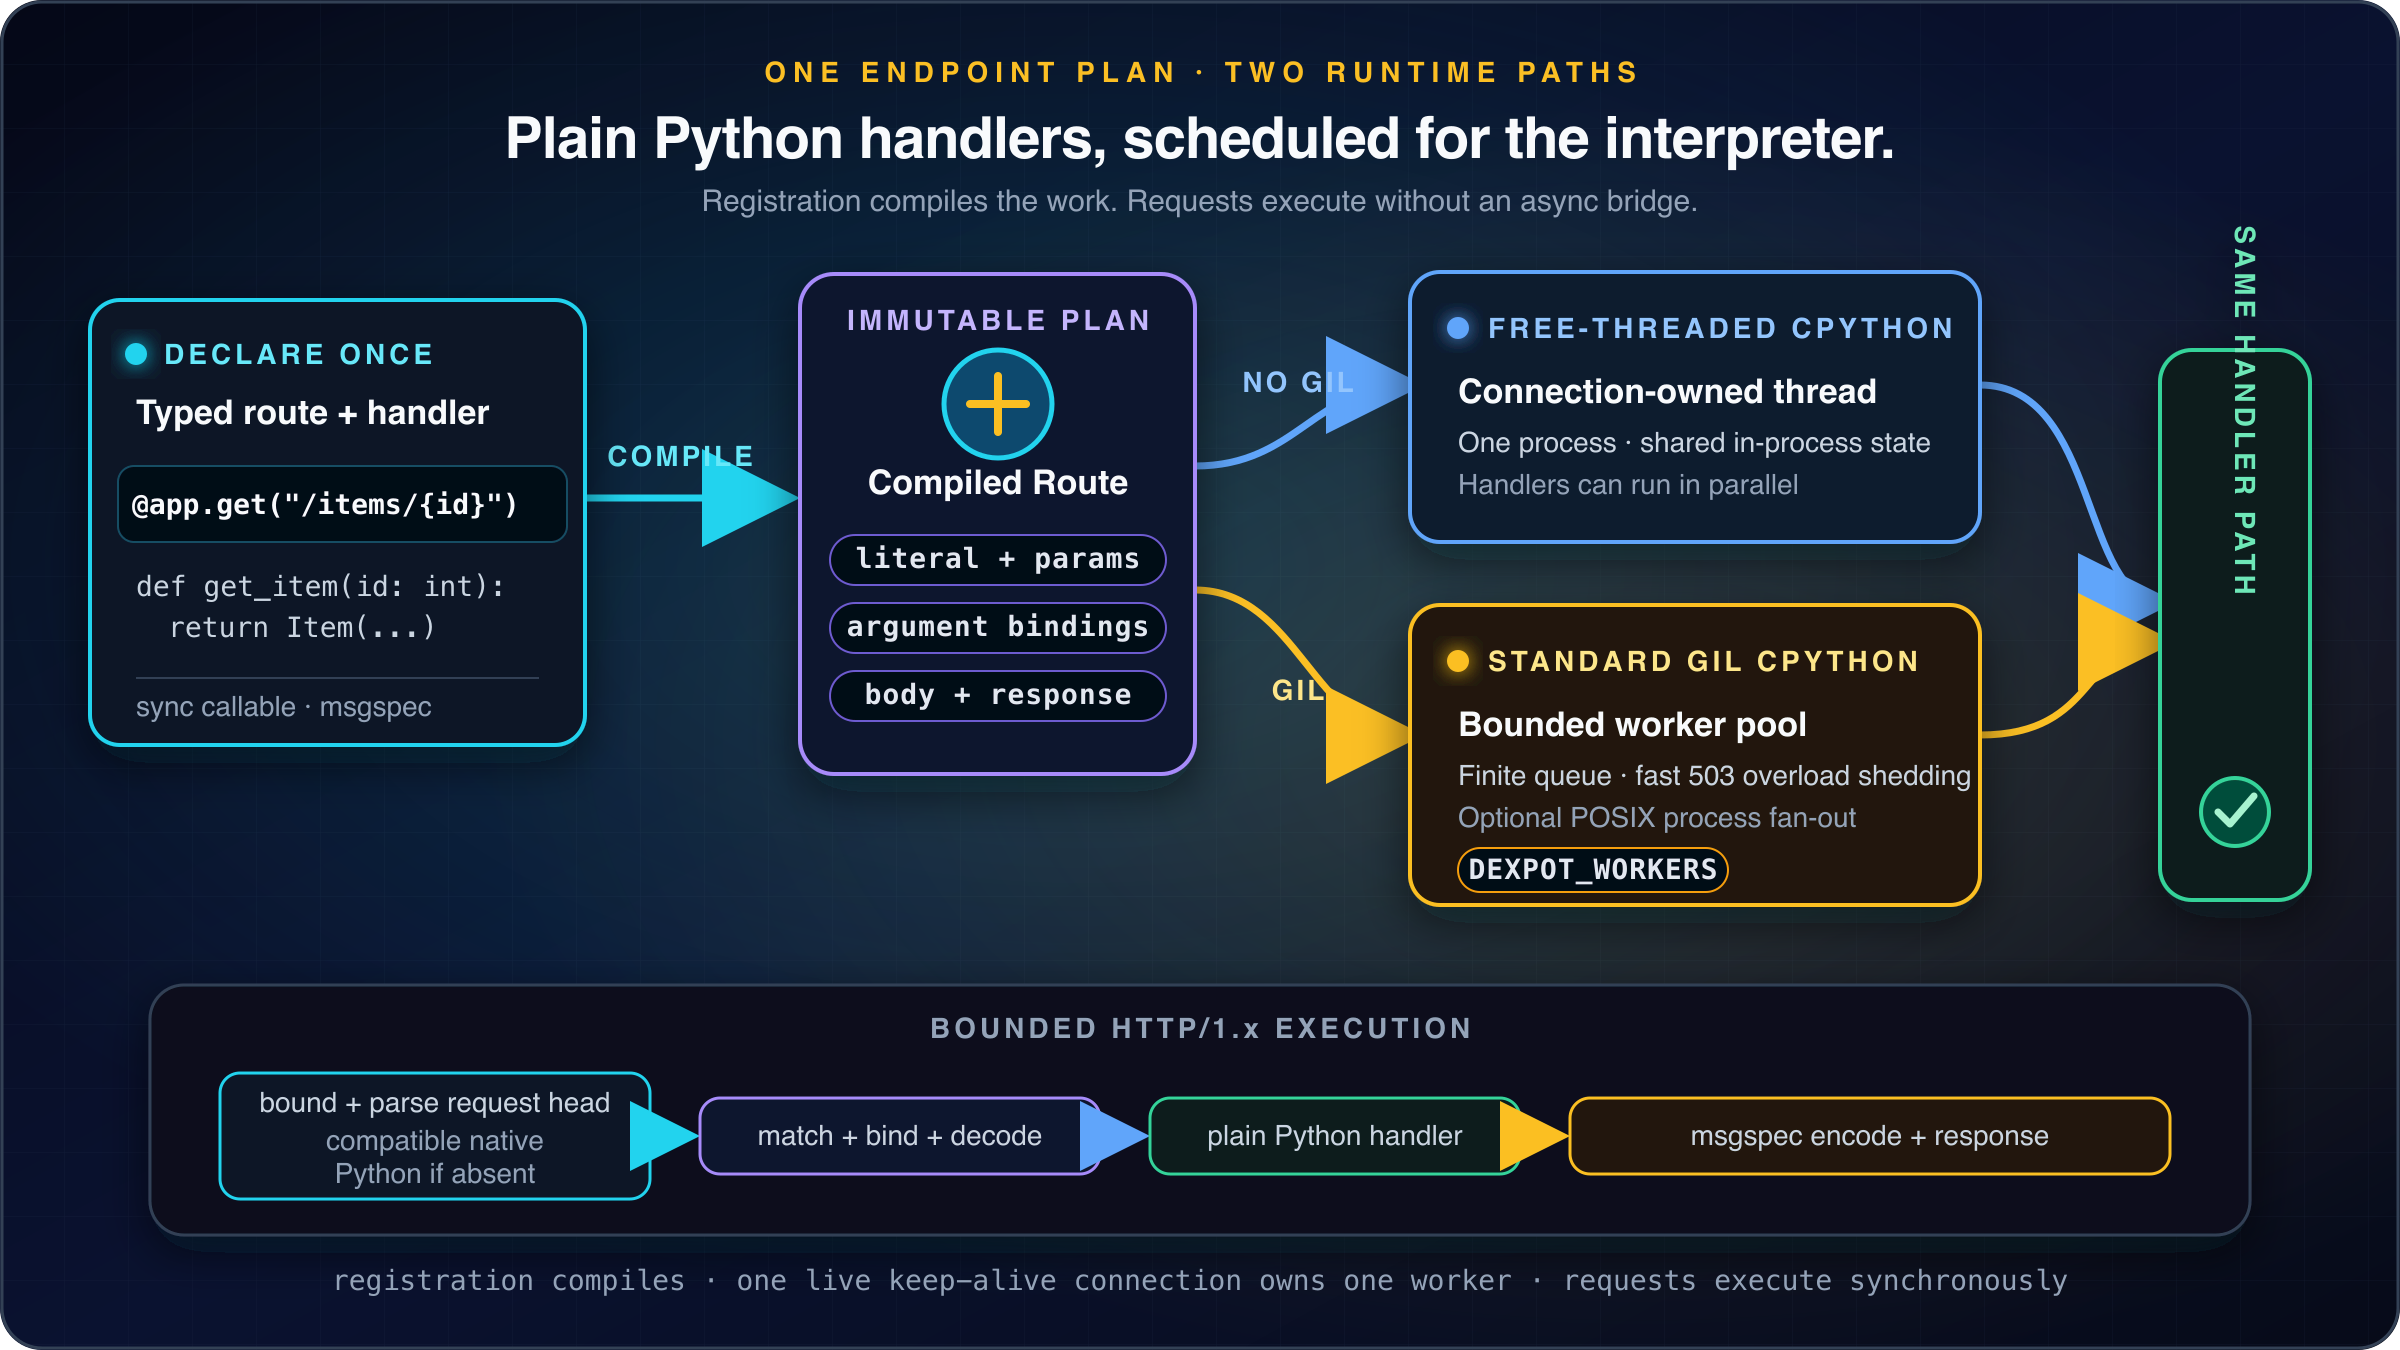
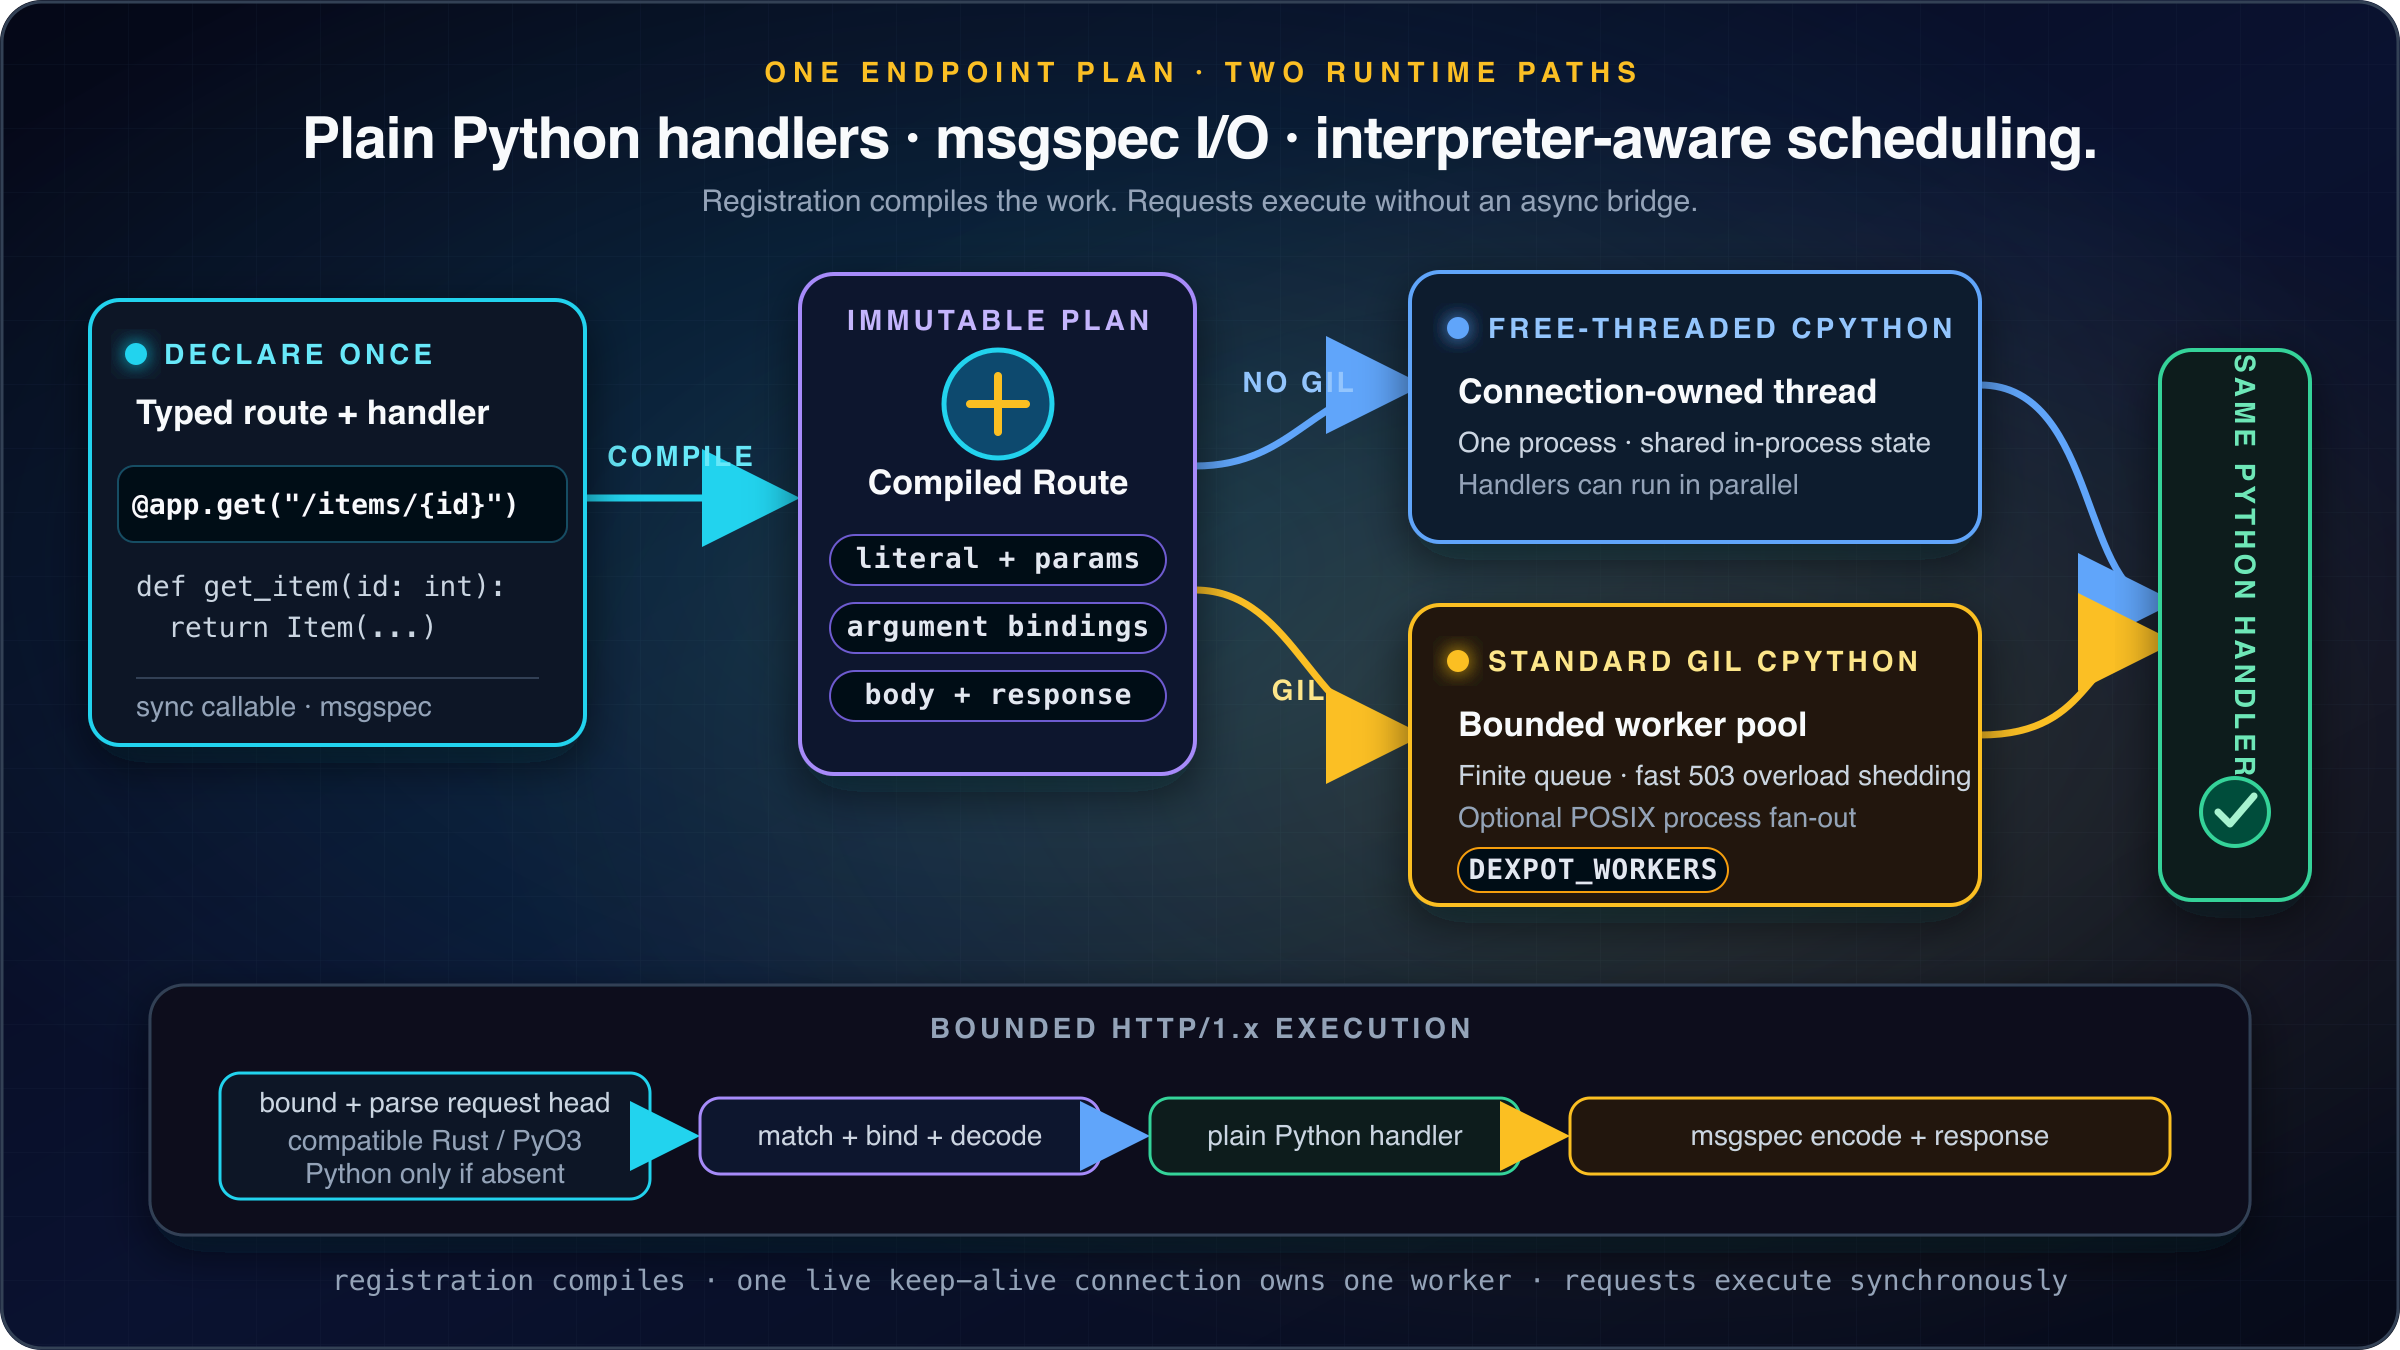
docs: make Rust parser visible in diagram

diff --git a/tests/test_docs.py b/tests/test_docs.py
@@ -74,6 +74,7 @@ def test_readme_execution_diagram_is_rendered_and_editable() -> None:
     assert len(data) < 700_000
     assert ET.fromstring(source).tag.endswith("svg")
     assert "ONE ENDPOINT PLAN · TWO RUNTIME PATHS" in source
+    assert "Plain Python handlers · msgspec I/O · interpreter-aware scheduling." in source
     assert "FREE-THREADED CPYTHON" in source
     assert "STANDARD GIL CPYTHON" in source
     font_sizes = [int(size) for size in re.findall(r"font-size:\s*(\d+)px", source)]
@@ -82,8 +83,13 @@ def test_readme_execution_diagram_is_rendered_and_editable() -> None:
     assert "literal + params" in source
     assert "literal / parametric match" not in source
     assert "bound + parse request head" in source
-    assert "compatible native" in source
-    assert "Python if absent" in source
+    assert "compatible Rust / PyO3" in source
+    assert "Python only if absent" in source
+    assert "SAME PYTHON HANDLER" in source
+    assert 'x="2235" y="565"' in source
+    assert "SAME HANDLER PATH" not in source
+    assert "compatible native" not in source
+    assert "Python if absent" not in source
     assert "native if installed" not in source
     assert "Python fallback" not in source
     assert (

diff --git a/README.md b/README.md
@@ -34,7 +34,7 @@
 </p>
 
 <p align="center">
-  <img src="https://raw.githubusercontent.com/tugrulguner/dexpot/main/docs/assets/dexpot-execution.png" alt="A dexpot route compiles once into an immutable endpoint plan, parses each bounded request head with compatible dexpot-native or the Python reference when native is absent, then uses either a connection-owned thread on free-threaded CPython or a bounded worker pool with optional process fan-out on standard GIL CPython before both paths execute the same synchronous handler pipeline" width="960">
+  <img src="https://raw.githubusercontent.com/tugrulguner/dexpot/main/docs/assets/dexpot-execution.png" alt="A dexpot route compiles once into an immutable endpoint plan, parses each bounded request head with the compatible Rust and PyO3 dexpot-native parser or the Python reference only when native is absent, then uses either a connection-owned thread on free-threaded CPython or a bounded worker pool with optional process fan-out on standard GIL CPython before both paths execute the same synchronous Python handler" width="960">
 </p>
 
 ## Why dexpot

diff --git a/changelog.d/+cb8091be.changed.md b/changelog.d/+cb8091be.changed.md
@@ -1,0 +1,1 @@
+Keep the execution diagram's shared Python-handler label inside its card and identify the optional Rust/PyO3 request-head parser explicitly.
